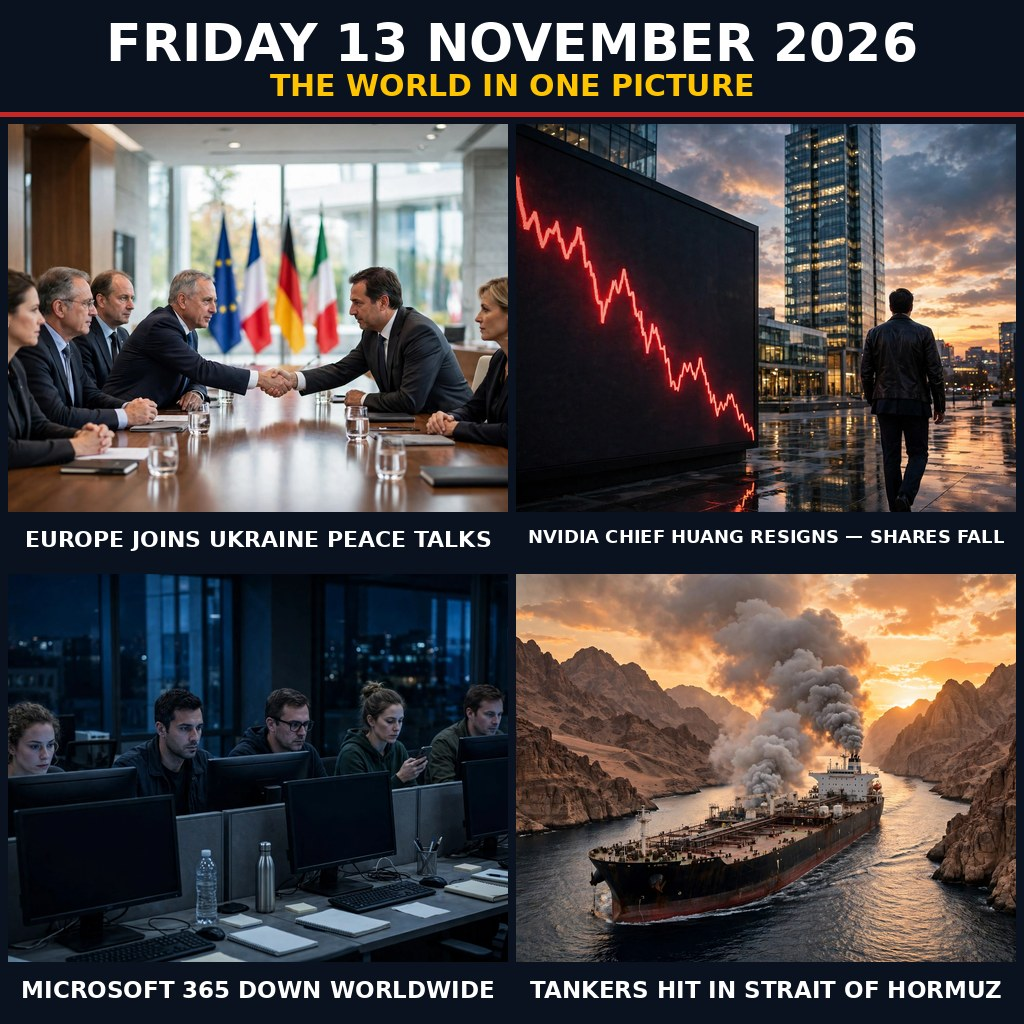
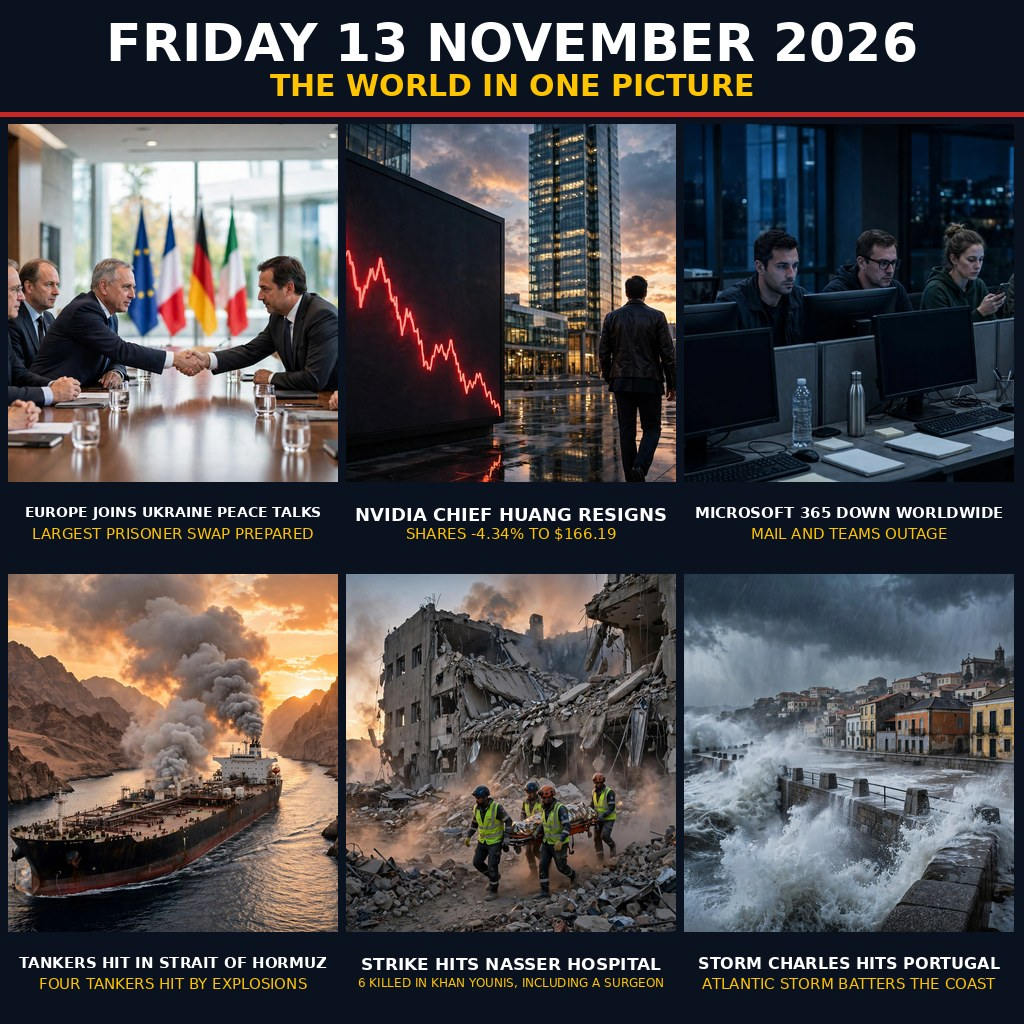
news-image-01 v2: six-story front page (adds Nasser hospital + Storm Charles)

diff --git a/main.py b/main.py
@@ -4,6 +4,9 @@
 The entry image is baked at build time (see entry.png) and this program
 simply copies it to the required output path, so the run is fully
 deterministic: the same bytes come out every time.
+
+v2: six-story front-page collage (3x2 grid) — Ukraine talks, Nvidia,
+Microsoft outage, Hormuz tankers, Nasser hospital strike, Storm Charles.
 """
 
 import os

diff --git a/README.md b/README.md
@@ -4,7 +4,7 @@ A front-page collage summing up the world's news of Friday 13 November 2026
 in one image (1024x1024), built for the make.fun competition
 `news-image-01` ("Sum up 13 November's world news in one image").
 
-## The four stories
+## The six stories
 
 1. **Europe joins Ukraine peace talks** — Europe joins the next round of
    Ukraine peace talks; Putin met US envoys Witkoff and Kushner in Moscow
@@ -22,13 +22,18 @@ in one image (1024x1024), built for the make.fun competition
    explosions in the Strait of Hormuz; Iran says an LNG tanker struck a
    naval mine; Israel's cabinet ordered preparations for a possible strike
    on Iran.
+5. **Strike hits Nasser hospital** — An Israeli strike on Nasser hospital
+   in Khan Younis killed 6 people, including a surgeon.
+6. **Storm Charles hits Portugal** — Storm Charles hit Portugal, an Atlantic
+   storm battering the coast.
 
 ## How it was made
 
-Four photographic panels were generated separately (one per story, no text
-in the generated images), then composited with PIL into a 2x2 grid under a
-header band. All labels were drawn with PIL in DejaVu Sans Bold, never by
-the image generator, so the text stays crisp and legible.
+Six photographic panels were generated separately (one per story, no text
+in the generated images), then composited with PIL into a 3x2 grid under a
+header band. Each panel carries a main label and one short factual
+sub-label, all drawn with PIL in DejaVu Sans, never by the image
+generator, so the text stays crisp and legible.
 
 ## Run it
 
